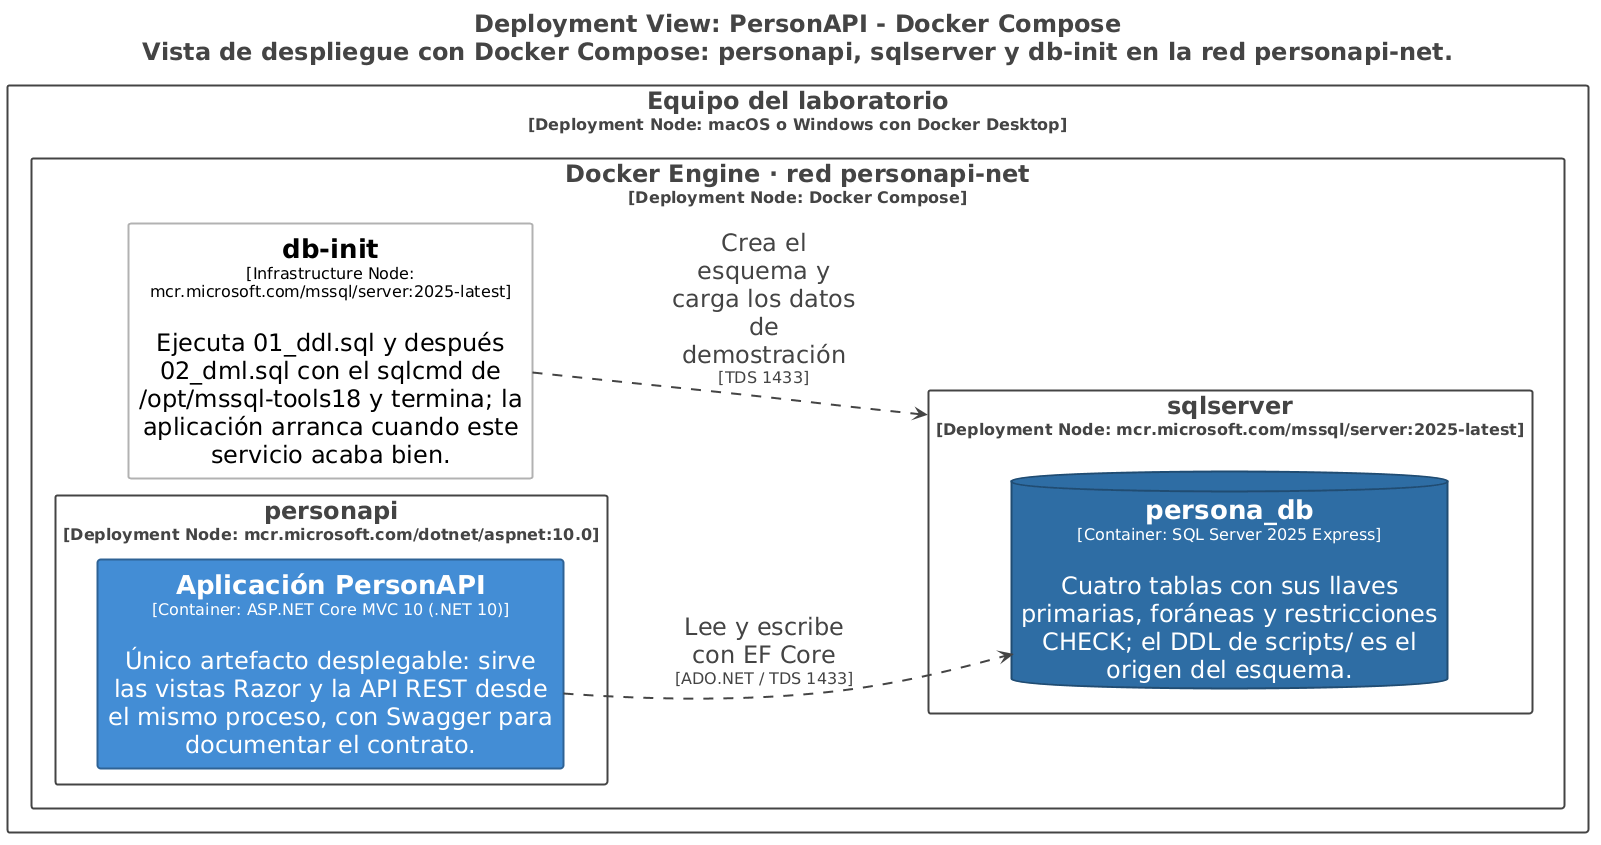
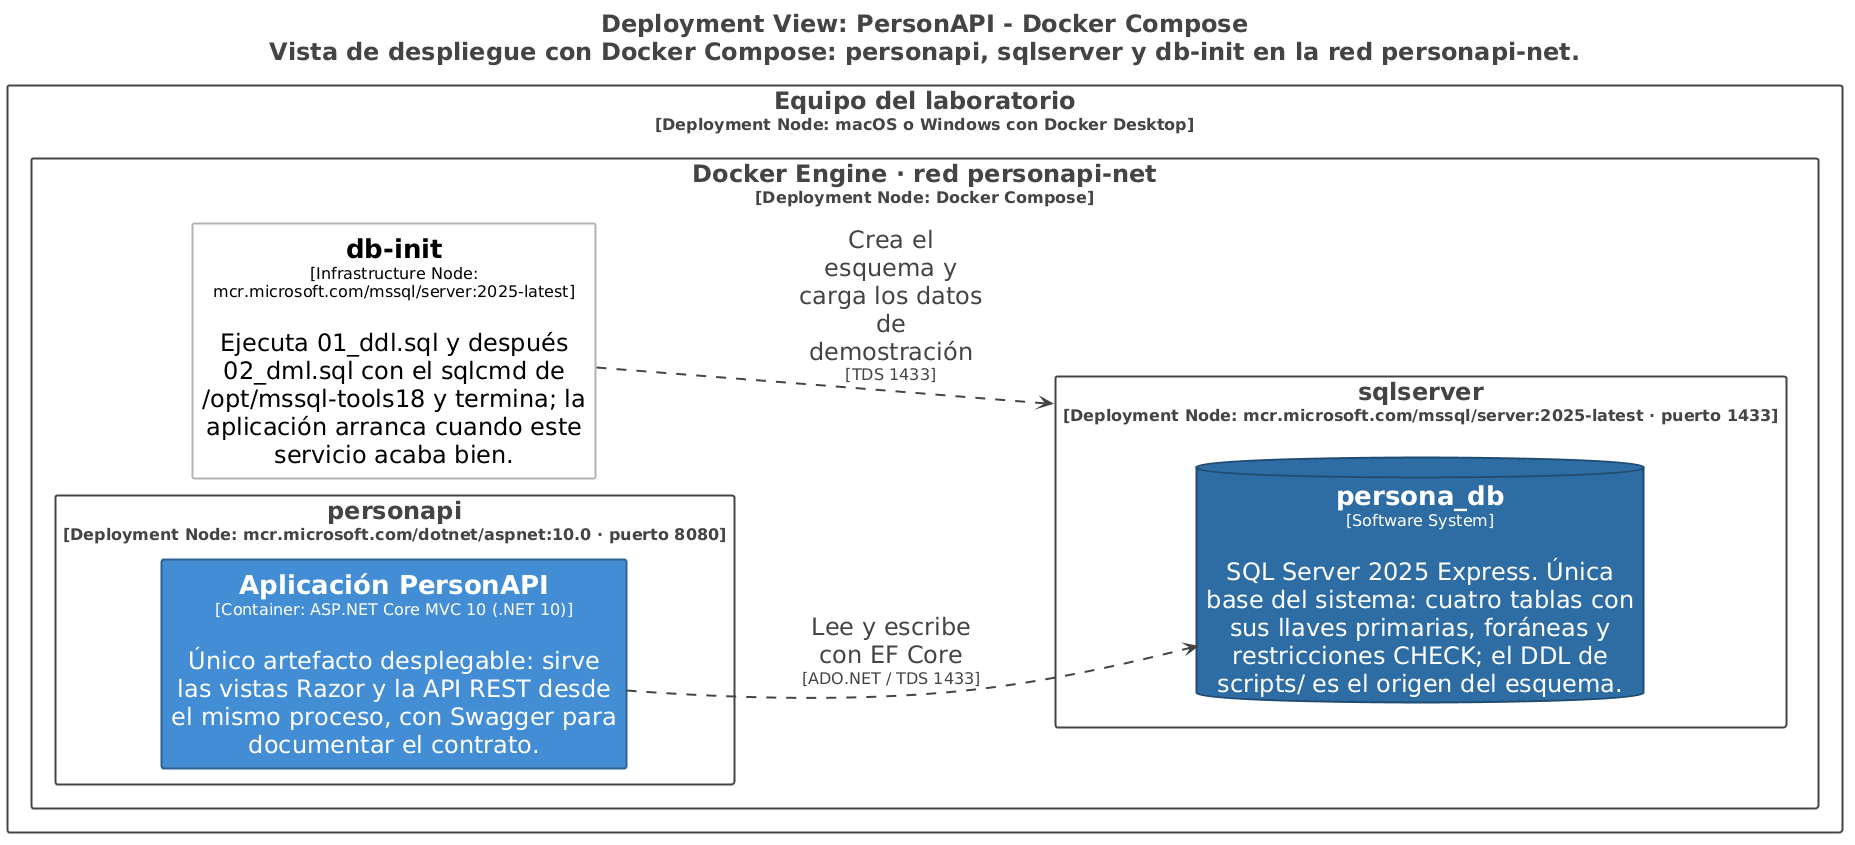
docs(arquitectura): persona_db en el nivel 1 y render reproducible [LAB-16]
Al revisar las imágenes una por una apareció un fallo de modelado: el
diagrama de contexto salía sin la base. Una vista de contexto de Structurizr
solo admite personas y sistemas, así que persona_db, modelada como contenedor
dentro de PersonAPI, no se dibujaba en el nivel 1, y tanto el pie de figura
del informe como el primer criterio de la historia exigen que aparezca.
Ahora es un sistema propio: sale en los tres niveles, conserva el protocolo
de la relación y sigue siendo una sola base, sin tocar AD-01.

Además:

- Los nodos de despliegue declaran su puerto, como la figura del informe, y
  persona_db nombra el motor.
- render.sh regenera las seis imágenes con una sola orden: valida, exporta a
  PlantUML y convierte a PNG con los nombres que espera main.tex, con el
  límite de tamaño ya puesto.
- Se publican también los dos recortes por canal, que son material de
  sustentación y no entran en el informe.

Las seis imágenes se revisaron mirándolas: el contexto incluye la base, los
contenedores muestran un solo artefacto desplegable, el nivel 3 entra
completo con sus 22 componentes y sin ninguna flecha de controlador al
contexto de datos, cada recorte deja fuera el otro canal y el despliegue
coincide con docker-compose.yml.

Changed region(s): [[0.0, 0.1846, 0.9994, 0.9846], [0.0937, 0.0, 0.9057, 0.1538], [0.3435, 0.1846, 0.6558, 0.2462]]

diff --git a/docs/wiki/02-arquitectura/diagramas/README.md b/docs/wiki/02-arquitectura/diagramas/README.md
@@ -8,6 +8,7 @@ son material derivado y se regeneran a partir de él.
 | Archivo | Contenido |
 |---|---|
 | [`personapi-c4.dsl`](personapi-c4.dsl) | Modelo C4 completo en Structurizr DSL: contexto, contenedores, componentes, recortes por canal y despliegue |
+| [`render.sh`](render.sh) | Regenera las seis imágenes desde el `.dsl`: valida, exporta a PlantUML y convierte a PNG con los nombres del informe |
 
 ## Qué se dibuja
 
@@ -39,6 +40,9 @@ sustentación, mientras `c4-c3-componentes` es la que va al informe.
 **Playground (sin instalar nada).** Abrir <https://structurizr.com/dsl>, pegar el
 contenido de `personapi-c4.dsl` y elegir la vista en el selector. Exportar cada diagrama
 como PNG.
+
+**Una sola orden.** `./docs/wiki/02-arquitectura/diagramas/render.sh` hace los tres pasos
+y avisa del tamaño de cada imagen. Necesita Docker. Lo que ejecuta por dentro:
 
 **Reproducible, con Docker.** `structurizr-cli` **no** exporta PNG —sus formatos son
 `plantuml`, `mermaid`, `json`, `static`…— y la imagen `structurizr/cli` está
@@ -94,16 +98,31 @@ compila igual, así que la ausencia se ve en el PDF en vez de pasar inadvertida.
 Exportadas con los comandos de arriba y versionadas junto al informe, que es quien las
 incluye:
 
-| Vista | Imagen |
-|---|---|
-| Contexto | [`c4-c1-contexto.png`](../../../informe/diagramas/c4-c1-contexto.png) |
-| Contenedores | [`c4-c2-contenedores.png`](../../../informe/diagramas/c4-c2-contenedores.png) |
-| Componentes | [`c4-c3-componentes.png`](../../../informe/diagramas/c4-c3-componentes.png) |
-| Despliegue | [`c4-despliegue.png`](../../../informe/diagramas/c4-despliegue.png) |
+| Vista | Imagen | ¿La usa el informe? |
+|---|---|---|
+| Contexto | [`c4-c1-contexto.png`](../../../informe/diagramas/c4-c1-contexto.png) | sí, figura de nivel 1 |
+| Contenedores | [`c4-c2-contenedores.png`](../../../informe/diagramas/c4-c2-contenedores.png) | sí, figura de nivel 2 |
+| Componentes | [`c4-c3-componentes.png`](../../../informe/diagramas/c4-c3-componentes.png) | sí, figura de nivel 3 |
+| Recorte del canal MVC | [`c4-c3-componentes-canal-web.png`](../../../informe/diagramas/c4-c3-componentes-canal-web.png) | no: material de sustentación |
+| Recorte del canal REST | [`c4-c3-componentes-canal-json.png`](../../../informe/diagramas/c4-c3-componentes-canal-json.png) | no: material de sustentación |
+| Despliegue | [`c4-despliegue.png`](../../../informe/diagramas/c4-despliegue.png) | no: el informe tiene su propia figura de despliegue en TikZ |
+
+Las tres primeras son las que `main.tex` referencia por nombre, así que aparecen en el PDF
+sin tocar el `.tex`. Las otras tres se incluirían solo si quien mantiene el informe decide
+añadirlas.
 
 Se regeneran desde el `.dsl` cada vez que el modelo cambie; no se editan a mano. Al
 regenerarlas, **comprobar que la imagen de componentes no quede recortada**: mide unos
 5000 px de ancho y el límite por defecto de PlantUML la corta en silencio.
+
+## Una decisión de modelado que conviene saber
+
+`persona_db` se modela como **sistema propio**, no como contenedor dentro de PersonAPI.
+No es un capricho: una vista de contexto de Structurizr solo admite personas y sistemas,
+así que con la base como contenedor el nivel 1 salía **sin la base**, y tanto el pie de
+figura del informe como el primer criterio de HU-016 exigen que aparezca. Modelada como
+sistema, sale en los tres niveles y la relación «lee y escribe» conserva su protocolo.
+Sigue siendo **una sola base**: AD-01 y la regla 1 no cambian.
 
 ## Lo que el modelo garantiza
 
